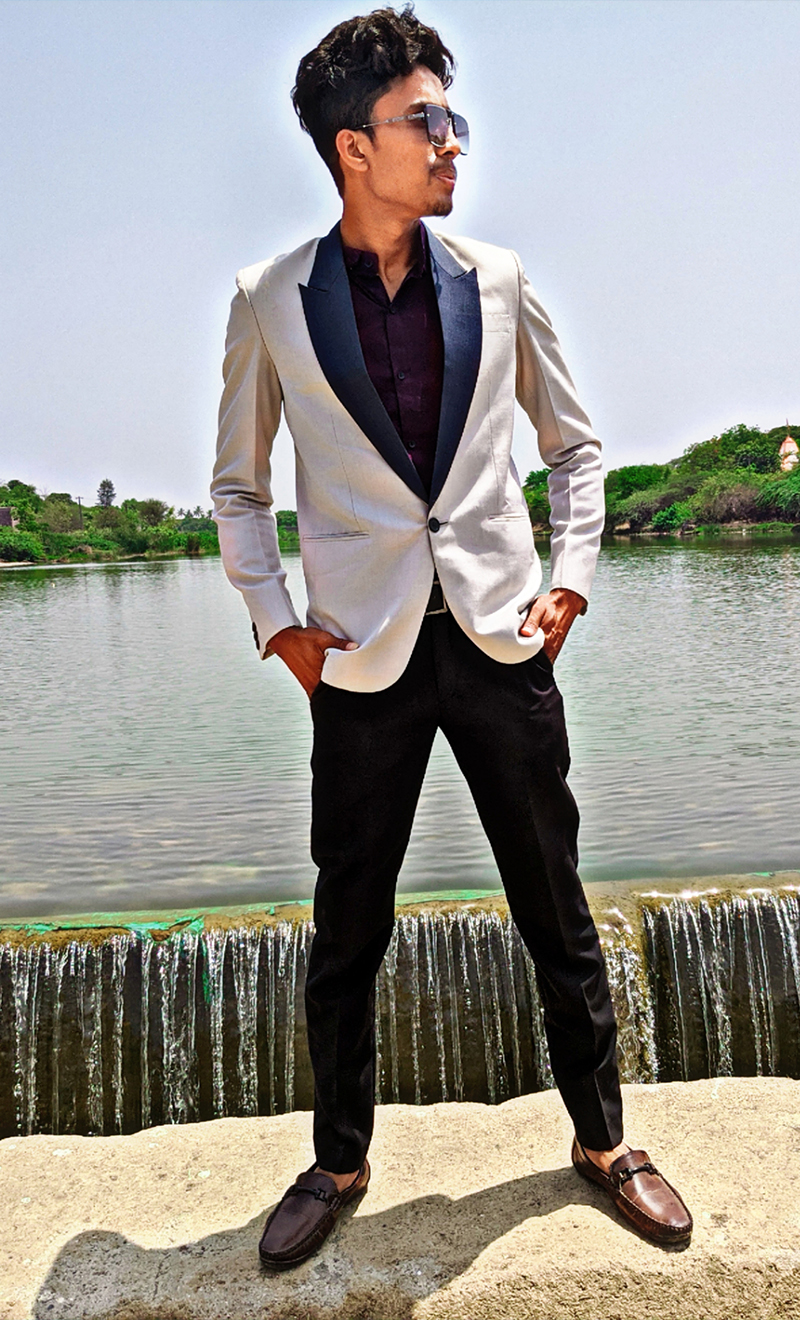
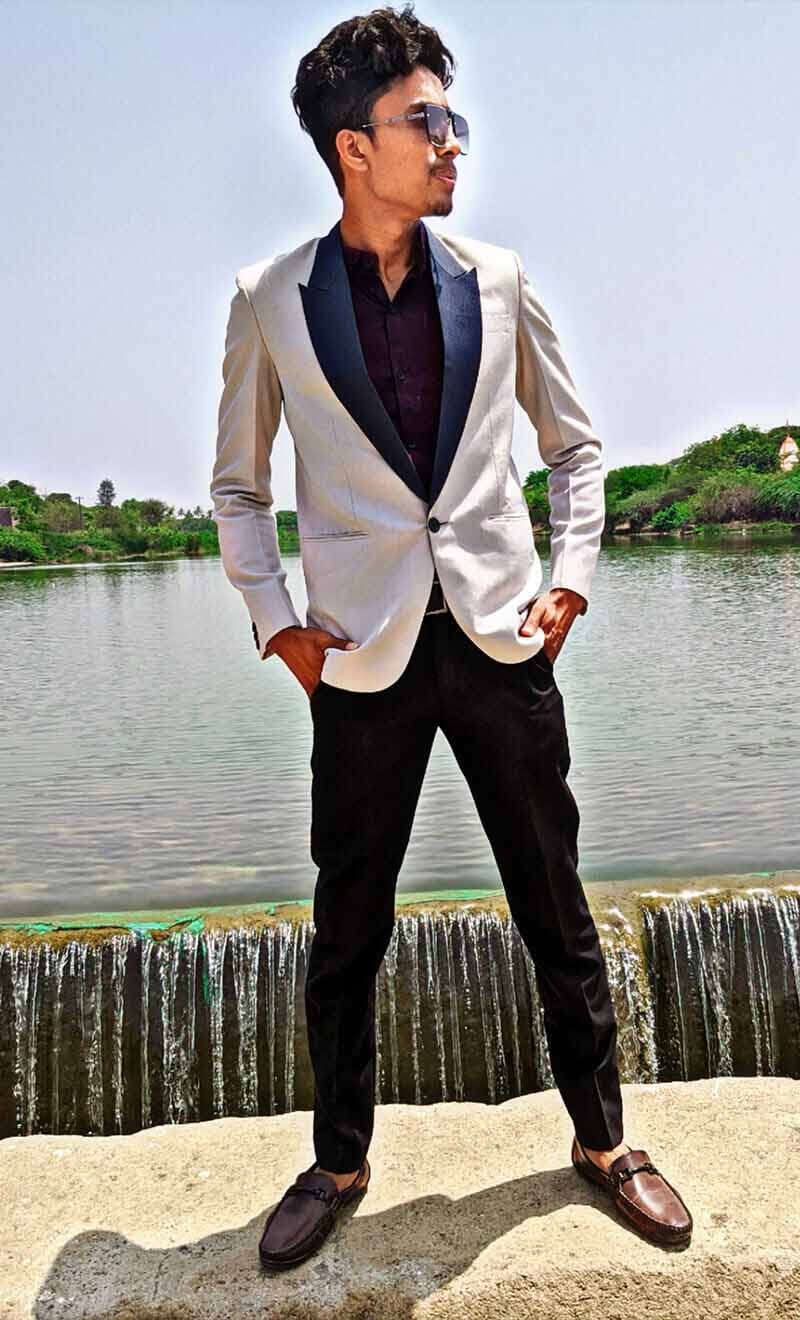
img optimize

diff --git a/src/components/Services.js b/src/components/Services.js
@@ -4,18 +4,19 @@ import React from 'react'
 export default function Services() {
 
   return (
+  <main id="main">
     <section id="services" className="services">
     <div className="container wow rollIn animated" data-wow-duration="1.5s">
       <div className="section-title">
         <span>My Services</span>
         <h2>My Services</h2>
-        <p>So I Was Not Born With A Whole Lot Of Natural Talent... But I Work Hard And I Never Give Up. That Is My Gift. That Is MY Ninja Way!</p>
+        <p>I was not born with a whole lot of natural talent... but I work hard and I never give up. that is my gift. that ss my ninja way!</p>
       </div>
       <div className="row">
         <div className="col-md-6 col-xl-3 d-flex align-items-stretch  mb-lg-0">
           <div className="icon-box">
             <div className="icon"><i className="fas fa-palette" /></div>
-            <h4 className="title"><a href>Web Design</a></h4>
+            <h4 className="title"><a href='/'>Web Design</a></h4>
             <p className="description">Lorem ipsum dolor, sit amet consectetur adipisicing elit. Porro autem, enim
               necessitatibus quae ab placeat consectetur velit qui, sint aliquam sunt.</p>
           </div>
@@ -23,7 +24,7 @@ export default function Services() {
         <div className="col-md-6 col-xl-3 d-flex align-items-stretch  mb-lg-0">
           <div className="icon-box">
             <div className="icon"><i className="fas fa-radiation" /></div>
-            <h4 className="title"><a href>Animation</a></h4>
+            <h4 className="title"><a href='/'>Animation</a></h4>
             <p className="description">Lorem ipsum dolor, sit amet consectetur adipisicing elit. Porro autem, enim
               necessitatibus quae ab placeat consectetur velit qui, sint aliquam sunt.</p>
           </div>
@@ -31,7 +32,7 @@ export default function Services() {
         <div className="col-md-6 col-xl-3 d-flex align-items-stretch  mb-lg-0">
           <div className="icon-box">
             <div className="icon"><i className="fas fa-code" /></div>
-            <h4 className="title"><a href>Web Development</a></h4>
+            <h4 className="title"><a href='/'>Web Development</a></h4>
             <p className="description">Lorem ipsum dolor, sit amet consectetur adipisicing elit. Porro autem, enim
               necessitatibus quae ab placeat consectetur velit qui, sint aliquam sunt.</p>
           </div>
@@ -39,7 +40,7 @@ export default function Services() {
         <div className="col-md-6 col-xl-3 d-flex align-items-stretch  mb-lg-0">
           <div className="icon-box">
             <div className="icon"><i className="fas fa-arrows-alt" /></div>
-            <h4 className="title"><a href>Fully Responsive</a></h4>
+            <h4 className="title"><a href='/'>Fully Responsive</a></h4>
             <p className="description">Lorem ipsum dolor, sit amet consectetur adipisicing elit. Porro autem, enim
               necessitatibus quae ab placeat consectetur velit qui, sint aliquam sunt.</p>
           </div>
@@ -95,6 +96,7 @@ export default function Services() {
           </div>
         </div>
     </div>
-  </section>
+    </section>
+  </main>
   )
 }

diff --git a/src/components/Header.js b/src/components/Header.js
@@ -2,30 +2,29 @@ import React from 'react'
 
 function Header() {
   return (
-  
     <header id="header" className="header-transparent">
- <div className="profile">
-   <img src="assets/img/me.jpg" alt="" className="img-fluid" />
-   <h1>P<span>R</span>A<span>Y</span>A<span>G </span>D<span>H</span>A<span>D</span>U<span>K</span></h1>
- </div>
- <nav id="navbar" className="navbar">
-   <ul>
-     <li><a className="nav-link scrollto active" href="#hero"><i className="fas fa-house-user" />Home</a></li>
-     <li><a className="nav-link scrollto" href="#about"><i className="fas fa-user-alt" />About</a></li>
-     <li><a className="nav-link scrollto" href="#services"><i className="fas fa-poll" />Services</a></li>
-     <li><a className="nav-link scrollto" href="#portfolio"> <i className="fas fa-briefcase" />Portfolio</a></li>
-     <li><a className="nav-link scrollto" href="#blog"><i className="fas fa-file" />Blog</a></li>
-     <li><a className="nav-link scrollto" href="#contact"><i className="fas fa-envelope" />Contact</a></li>
-   </ul>
-   <i className="fas fa-bars mobile-nav-toggle" />
- </nav>
- <div className="social-links">
-   <a href="https://twitter.com/PrayagDhaduk" className="twitter"><i className="fab fa-twitter" /></a>
-   <a href="https://www.facebook.com/prayag.dhaduk.9" className="facebook"><i className="fab fa-facebook-f" /></a>
-   <a href="https://www.instagram.com/prayag_patel_007/" className="instagram"><i className="fab fa-instagram-square" /></a>
-   <a href="https://in.linkedin.com/in/prayag-dhaduk-222184190" className="skype"><i className="fab fa-linkedin-in"/></a>
- </div>
-</header>
+    <div className="profile">
+      <img src="assets/img/me.jpg" alt="" className="img-fluid" />
+      <h1>P<span>R</span>A<span>Y</span>A<span>G </span>D<span>H</span>A<span>D</span>U<span>K</span></h1>
+    </div>
+    <nav id="navbar" className="navbar">
+      <ul>
+        <li><a className="nav-link scrollto active" href="#hero"><i className="fas fa-house-user" />Home</a></li>
+        <li><a className="nav-link scrollto" href="#about"><i className="fas fa-user-alt" />About</a></li>
+        <li><a className="nav-link scrollto" href="#services"><i className="fas fa-poll" />Services</a></li>
+        <li><a className="nav-link scrollto" href="#portfolio"> <i className="fas fa-briefcase" />Portfolio</a></li>
+        <li><a className="nav-link scrollto" href="#blog"><i className="fas fa-file" />Blog</a></li>
+        <li><a className="nav-link scrollto" href="#contact"><i className="fas fa-envelope" />Contact</a></li>
+      </ul>
+      <i className="fas fa-bars mobile-nav-toggle" />
+    </nav>
+    <div className="social-links">
+      <a href="https://twitter.com/PrayagDhaduk" className="twitter"><i className="fab fa-twitter" /></a>
+      <a href="https://www.facebook.com/prayag.dhaduk.9" className="facebook"><i className="fab fa-facebook-f" /></a>
+      <a href="https://www.instagram.com/prayag_patel_007/" className="instagram"><i className="fab fa-instagram-square" /></a>
+      <a href="https://in.linkedin.com/in/prayag-dhaduk-222184190" className="skype"><i className="fab fa-linkedin-in"/></a>
+    </div>
+    </header>
   )
 }
 

diff --git a/src/components/Contact.js b/src/components/Contact.js
@@ -2,12 +2,13 @@ import React from 'react'
 
 export default function Contact() {
   return (
+  <main id="main">
     <section id="contact" className="contact">
     <div className="container wow fadeInLeftBig animated" data-wow-duration="1.5s">
       <div className="section-title">
         <span>Contact Me</span>
         <h2>Contact Me</h2>
-        <p>Lorem ipsum dolor sit amet consectetur adipisicing elit.</p>
+        <p>Hard work is worthless for those that don’t believe in themselves.</p>
       </div>
       <div className="row">
         <div className="col-lg-6">
@@ -74,11 +75,11 @@ export default function Contact() {
       <h3>Prayag Dhaduk</h3>
       <p>In this fake world loyalty is most expensive thing not everyone whom you trust can afford it.</p>
       <div className="social-links">
-      <a  href="https://twitter.com/PrayagDhaduk" className="twitter"><i className="fab fa-twitter" /></a>
-      <a  href="https://www.facebook.com/prayag.dhaduk.9" className="facebook"><i className="fab fa-facebook-f" /></a>
-      <a  href="https://www.instagram.com/prayag_patel_007/" className="instagram"><i className="fab fa-instagram-square" /></a>
-      <a  href="https://wa.me/message/X5AMUTSPFKM6B1" className="whatsapp"><i className="fab fa-whatsapp-square"/></a>
-      <a  href="https://in.linkedin.com/in/prayag-dhaduk-222184190" className="linkedin"><i className="fab fa-linkedin-in" /></a>
+      <a href="https://twitter.com/PrayagDhaduk" className="twitter"><i className="fab fa-twitter" /></a>
+      <a href="https://www.facebook.com/prayag.dhaduk.9" className="facebook"><i className="fab fa-facebook-f" /></a>
+      <a href="https://www.instagram.com/prayag_patel_007/" className="instagram"><i className="fab fa-instagram-square" /></a>
+      <a href="https://wa.me/message/X5AMUTSPFKM6B1" className="whatsapp"><i className="fab fa-whatsapp-square"/></a>
+      <a href="https://in.linkedin.com/in/prayag-dhaduk-222184190" className="linkedin"><i className="fab fa-linkedin-in" /></a>
       </div>
       <div className="copyright">
       © Copyright&nbsp;<a href='https://github.com/Prayagdhaduk'>Prayag Dhaduk </a>&nbsp;<i className="fa fa-heart"/>&nbsp;All rigths reserved
@@ -86,6 +87,7 @@ export default function Contact() {
    
   </footer>
   </div>
-  </section>
+    </section>
+  </main>
   )
 }

diff --git a/src/components/Blog.js b/src/components/Blog.js
@@ -2,12 +2,13 @@ import React from 'react'
 
 export default function Blog() {
   return (
+  <main id="main">
     <section id="blog" className="blog">
     <div className="container">
       <div className="section-title wow fadeInDown animated" data-wow-duration="2s">
         <span>Blog</span>
         <h2>Blog</h2>
-        <p>Lorem ipsum dolor sit amet consectetur adipisicing elit.</p>
+        <p>Rejection is a part of any man’s life. If you can’t accept and move past rejection, or at least use it as writing material – you’re not a real man.</p>
       </div>
       <div className="row justify-content-center">
         <div className="col-xl-4 col-sm-6">
@@ -33,7 +34,7 @@ export default function Blog() {
         <div className="col-xl-4 col-sm-6">
           <div className="blog-post">
             <div className="blog-thumb">
-              <a href="/"><img src="assets/img/blog/02.jpg" alt="" /></a>
+              <a href="/"><img src="assets/img/blog/03.jpg" alt="" /></a>
             </div>
             <div className="down-content">
               <span>Quots</span>
@@ -53,7 +54,7 @@ export default function Blog() {
         <div className="col-xl-4 col-sm-6">
           <div className="blog-post">
             <div className="blog-thumb">
-              <a href="/"><img src="assets/img/blog/03.jpg" alt="" /></a>
+              <a href="/"><img src="assets/img/blog/02.jpg" alt="" /></a>
             </div>
             <div className="down-content">
               <span>Quots</span>
@@ -82,6 +83,7 @@ export default function Blog() {
         </div>
       </div>
     </div>
-  </section>
+    </section>
+  </main>
   )
 }

diff --git a/src/components/Home.js b/src/components/Home.js
@@ -23,24 +23,29 @@ export default function Home() {
     };
   }, []);
   return (
-    <section id="hero">
+    <main id="main">
+      <section id="hero">
         <div className="container">
           <div className="row">
             <div className="col-12 wow bounceInUp" data-wow-duration="3s">
               <div className="hero-img">
                 <img src="assets/img/hero-bg.jpg" alt=""/>
               </div>
+              {/* <div className='spinner'>
+            <img src="assets/img/logo512.png" alt=""/>
+            </div> */}
             </div>
             <div className="col-12 wow bounceInDown" data-wow-duration="3s">
               <div className="hero-box">
                 <h1>P<span>R</span>A<span>Y</span>A<span>G</span> D<span>H</span>A<span>D</span>U<span>K</span></h1>
-                <h2>I am <span ref={el}></span></h2>
+                <h2>I am <span ref={el}/></h2>
                 <a href="#about" className="btn-scroll scrollto" title="Scroll Down"><i className="fas fa-angle-down" /></a>
               </div>
             </div>
           </div>
         </div>
       </section>
+    </main>
      
   )
 }

diff --git a/src/components/About.js b/src/components/About.js
@@ -3,13 +3,13 @@ import ProgressBar from 'react-bootstrap/ProgressBar'
 
 export default function About() {
   return (
-
-    <section id="about" className="about">
+    <main id="main">
+      <section id="about" className="about">
         <div className="container wow fadeInLeftBig animated" data-wow-duration="1.5s">
           <div className="section-title">
             <span>About Me</span>
             <h2>About Me</h2>
-            <p>Lorem ipsum dolor sit amet consectetur adipisicing elit.</p>
+            <p>Those Who Do Not Understand True Pain Can Never Understand True Peace</p>
           </div>
           <div className="row">
             <div className="col-xl-4 col-md-3 d-flex align-items-stretch justify-content-center justify-content-lg-start">
@@ -144,6 +144,7 @@ export default function About() {
           </div>
         </div>
       </section>
+    </main>
      
   )
 }

diff --git a/src/components/Portfolio.js b/src/components/Portfolio.js
@@ -2,12 +2,13 @@ import React from 'react'
 
 export default function Portfolio() {
   return (
+    <main id="main">
       <section id="portfolio" className="portfolio">
         <div className="container wow fadeInUp" data-wow-duration="1.5s">
           <div className="section-title">
             <span>My Portfolio</span>
             <h2>My Portfolio</h2>
-            <p>Lorem ipsum dolor sit amet consectetur adipisicing elit.</p>
+            <p>I’m not gonna run away, I never go back on my word! That’s my nindo: my ninja way.</p>
           </div>
           <ul id="portfolio-flters" className="d-flex justify-content-center">
             <li data-filter="*" className="filter-active">Me</li>
@@ -100,5 +101,6 @@ export default function Portfolio() {
           </div>
         </div>
       </section>
+    </main>
   )
 }

diff --git a/public/assets/css/style.css b/public/assets/css/style.css
@@ -525,6 +525,7 @@ img {
   align-items: center;
   justify-content: center;
   flex-direction: column;
+  text-align: center;
 }
 
 .hero-img {
@@ -982,7 +983,7 @@ section {
 # Testimonials
 --------------------------------------------------------------*/
 .testimonials {
-  padding: 20px 0;
+  padding: 40px 0;
   background: url("../img/testimonials-bg.jpg") no-repeat;
   background-position: center center;
   background-size: cover;
@@ -1018,7 +1019,7 @@ section {
 .testimonials .testimonial-item .testimonial-img {
   width: 100px;
   border-radius: 50%;
-  border: 6px solid rgb(255 255 255 / 36%);
+  border: 6px solid #dc354570;
   margin: 0 auto;
 }
 

diff --git a/public/index.html b/public/index.html
@@ -28,6 +28,7 @@
   <script src="assets/js/swiper-bundle.min.js"></script>
   <script src="assets/js/noframework.waypoints.js"></script>
   <script src="assets/js/main.js"></script>
+  
 </body>
 
 </html>

diff --git a/src/App.js b/src/App.js
@@ -10,14 +10,12 @@ function App() {
   return (
 <>  
 <Header/>
-<main id="main">
 <Home/>
 <About/>
 <Services/>
 <Portfolio/>
 <Blog/>
 <Contact/>
-</main>
 </>
 
   );

diff --git a/src/index.js b/src/index.js
@@ -10,5 +10,4 @@ ReactDOM.render(
   document.getElementById('root')
 );
 
-
 reportWebVitals();
